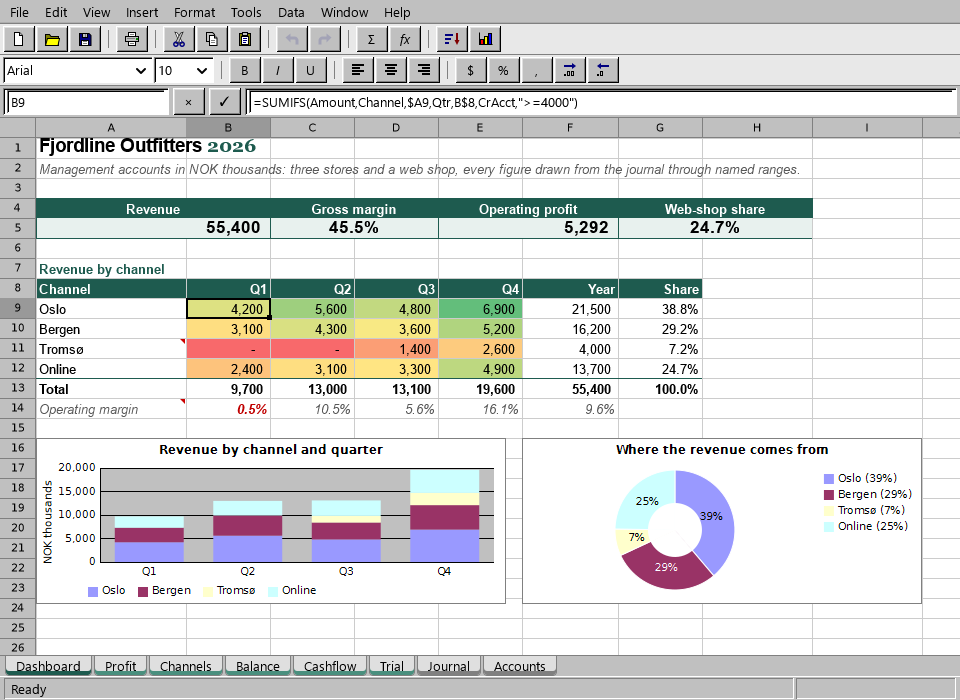
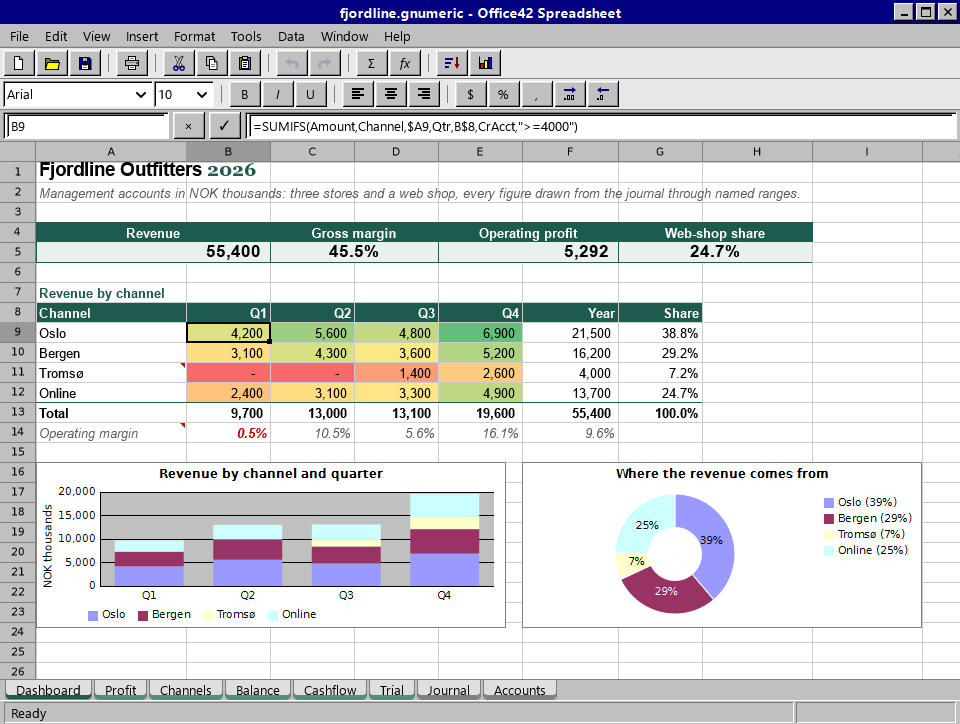
--screenshot draws the title bar, and the README's picture has one again
Since the window took the system's title bar, a --screenshot rendered
through GSK starts at the menu bar: the caption is Windows', not part of
the widget tree.  render_all now draws one over each toplevel -- the
classic navy caption with the window's title in bold white and raised
minimize, maximize and close buttons, close alone on a dialog.  A window
with a header bar of its own, like the About dialog, gets none.

The README's picture is taken again with it: the fjordline dashboard,
B9 selected, now 960x724 under "fjordline.gnumeric - Office42
Spreadsheet".

Checked: office42 --screenshot docs/images/screenshot.png --select B9
samples/fjordline.gnumeric shows the caption over the menu bar;
--activate format-cells shows the Format Cells dialog under its own
caption with a close button; --activate about shows the About dialog's
header bar and no second caption.

diff --git a/src/ui/o42-application.c b/src/ui/o42-application.c
@@ -314,6 +314,116 @@ render_window (GtkWidget *window, int *width, int *height)
   return node;
 }
 
+/* The title bar is the system's, which a render of the widget tree does
+ * not include, so the picture draws one over each window: Windows'
+ * classic navy caption with the window's title and its caption buttons --
+ * minimize, maximize and close on a window, close alone on a dialog.  A
+ * window with a title bar of its own, a GtkHeaderBar, gets none. */
+static void
+draw_caption_button (cairo_t *cr, double x, double y, double w, double h,
+                     double scale, char glyph)
+{
+  double cx = x + w / 2.0, cy = y + h / 2.0;
+
+  cairo_set_source_rgb (cr, 0.753, 0.753, 0.753);
+  cairo_rectangle (cr, x, y, w, h);
+  cairo_fill (cr);
+  cairo_set_line_width (cr, 1.0);
+  cairo_set_source_rgb (cr, 1, 1, 1);
+  cairo_move_to (cr, x + 0.5, y + h - 1);
+  cairo_line_to (cr, x + 0.5, y + 0.5);
+  cairo_line_to (cr, x + w - 1, y + 0.5);
+  cairo_stroke (cr);
+  cairo_set_source_rgb (cr, 0, 0, 0);
+  cairo_move_to (cr, x, y + h - 0.5);
+  cairo_line_to (cr, x + w - 0.5, y + h - 0.5);
+  cairo_line_to (cr, x + w - 0.5, y);
+  cairo_stroke (cr);
+  cairo_set_source_rgb (cr, 0.5, 0.5, 0.5);
+  cairo_move_to (cr, x + 1, y + h - 1.5);
+  cairo_line_to (cr, x + w - 1.5, y + h - 1.5);
+  cairo_line_to (cr, x + w - 1.5, y + 1);
+  cairo_stroke (cr);
+
+  cairo_save (cr);
+  cairo_translate (cr, cx, cy);
+  cairo_scale (cr, scale, scale);
+  cairo_set_source_rgb (cr, 0, 0, 0);
+  if (glyph == '_')
+    {
+      cairo_rectangle (cr, -3, 2, 7, 2);
+      cairo_fill (cr);
+    }
+  else if (glyph == 'o')
+    {
+      cairo_rectangle (cr, -4.5, -4.5, 9, 9);
+      cairo_stroke (cr);
+      cairo_rectangle (cr, -4.5, -4.5, 9, 2);
+      cairo_fill (cr);
+    }
+  else
+    {
+      cairo_move_to (cr, -3.5, -3.5); cairo_line_to (cr, 3.5, 3.5);
+      cairo_move_to (cr, 3.5, -3.5); cairo_line_to (cr, -3.5, 3.5);
+      cairo_set_line_width (cr, 1.4);
+      cairo_stroke (cr);
+    }
+  cairo_restore (cr);
+}
+
+static int
+caption_height (GtkWidget *window)
+{
+  if (gtk_window_get_titlebar (GTK_WINDOW (window)) != NULL)
+    return 0;
+  return (int) (24 * o42_text_scale (gtk_widget_get_display (window)) + 0.5);
+}
+
+static void
+draw_caption (cairo_t *cr, GtkWindow *window, int width)
+{
+  double scale = o42_text_scale (gtk_widget_get_display (GTK_WIDGET (window)));
+  int height = caption_height (GTK_WIDGET (window));
+  double bw = 20 * scale, bh = 18 * scale, by = (height - bh) / 2.0;
+  double x = width - 2 * scale - bw;
+  const char *title = gtk_window_get_title (window);
+  PangoLayout *layout;
+  PangoFontDescription *font;
+  int tw, th, buttons_left;
+
+  if (height == 0)
+    return;
+  cairo_set_source_rgb (cr, 0, 0, 0.502);
+  cairo_rectangle (cr, 0, 0, width, height);
+  cairo_fill (cr);
+
+  draw_caption_button (cr, x, by, bw, bh, scale, 'x');
+  if (GTK_IS_APPLICATION_WINDOW (window))
+    {
+      x -= 2 * scale + bw;
+      draw_caption_button (cr, x, by, bw, bh, scale, 'o');
+      x -= 2 * scale + bw;
+      draw_caption_button (cr, x, by, bw, bh, scale, '_');
+    }
+  buttons_left = (int) x;
+
+  if (title == NULL)
+    return;
+  layout = pango_cairo_create_layout (cr);
+  font = pango_font_description_from_string ("MS Sans Serif, Segoe UI, DejaVu Sans, sans-serif Bold");
+  pango_font_description_set_absolute_size (font, 14 * scale * PANGO_SCALE);
+  pango_layout_set_font_description (layout, font);
+  pango_font_description_free (font);
+  pango_layout_set_text (layout, title, -1);
+  pango_layout_set_ellipsize (layout, PANGO_ELLIPSIZE_END);
+  pango_layout_set_width (layout, MAX (buttons_left - 8, 1) * PANGO_SCALE);
+  pango_layout_get_pixel_size (layout, &tw, &th);
+  cairo_set_source_rgb (cr, 1, 1, 1);
+  cairo_move_to (cr, MAX ((width - tw) / 2.0, 4), (height - th) / 2.0);
+  pango_cairo_show_layout (cr, layout);
+  g_object_unref (layout);
+}
+
 /* Every toplevel, stacked top to bottom in one picture: the main window,
  * then whatever dialog --activate opened, so a dialog can be looked at
  * from a script as well. */
@@ -321,7 +431,7 @@ static void
 render_all (O42Application *self)
 {
   GList *windows = gtk_application_get_windows (GTK_APPLICATION (self));
-  GList *toplevels;
+  GList *toplevels, *l;
   GPtrArray *nodes = g_ptr_array_new ();
   GArray *sizes = g_array_new (FALSE, FALSE, sizeof (int) * 2);
   int total_w = 0, total_h = 0, y = 0;
@@ -350,11 +460,12 @@ render_all (O42Application *self)
       }
   }
 
-  for (GList *l = toplevels; l != NULL; l = l->next)
+  for (l = toplevels; l != NULL; l = l->next)
     {
       int size[2];
       GskRenderNode *node = render_window (GTK_WIDGET (l->data), &size[0], &size[1]);
 
+      size[1] += caption_height (GTK_WIDGET (l->data));
       g_ptr_array_add (nodes, node);
       g_array_append_val (sizes, size);
       total_w = MAX (total_w, size[0]);
@@ -366,7 +477,8 @@ render_all (O42Application *self)
   cairo_set_source_rgb (cr, 0.4, 0.4, 0.4);
   cairo_paint (cr);
 
-  for (guint i = 0; i < nodes->len; i++)
+  l = toplevels;
+  for (guint i = 0; i < nodes->len; i++, l = l->next)
     {
       GskRenderNode *node = g_ptr_array_index (nodes, i);
       int *size = &g_array_index (sizes, int, i * 2);
@@ -376,6 +488,8 @@ render_all (O42Application *self)
       cairo_set_source_rgb (cr, 0.753, 0.753, 0.753);
       cairo_rectangle (cr, 0, 0, size[0], size[1]);
       cairo_fill (cr);
+      draw_caption (cr, GTK_WINDOW (l->data), size[0]);
+      cairo_translate (cr, 0, caption_height (GTK_WIDGET (l->data)));
       if (node != NULL)
         {
           gsk_render_node_draw (node, cr);
@@ -411,14 +525,14 @@ render_all (O42Application *self)
         else
           g_object_unref (top);
       }
-    for (GList *l = open; l != NULL; l = l->next)
+    for (l = open; l != NULL; l = l->next)
       {
         gtk_window_destroy (GTK_WINDOW (l->data));
         g_object_unref (l->data);
       }
     g_list_free (open);
     open = g_list_copy (gtk_application_get_windows (GTK_APPLICATION (self)));
-    for (GList *l = open; l != NULL; l = l->next)
+    for (l = open; l != NULL; l = l->next)
       gtk_window_destroy (GTK_WINDOW (l->data));
     g_list_free (open);
   }
